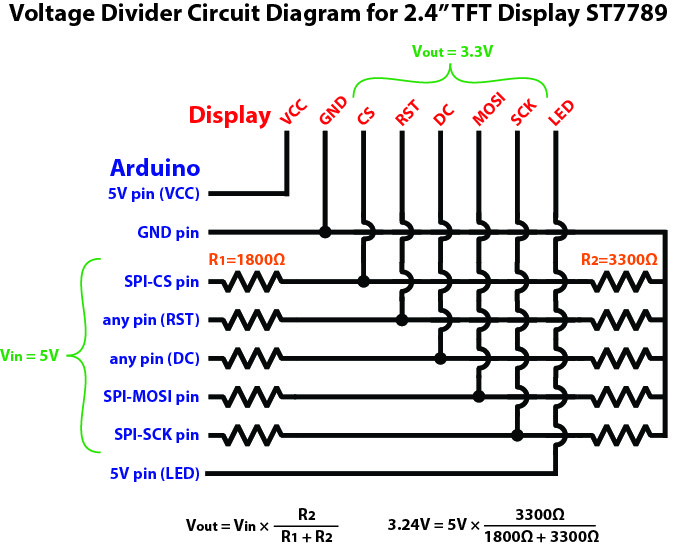
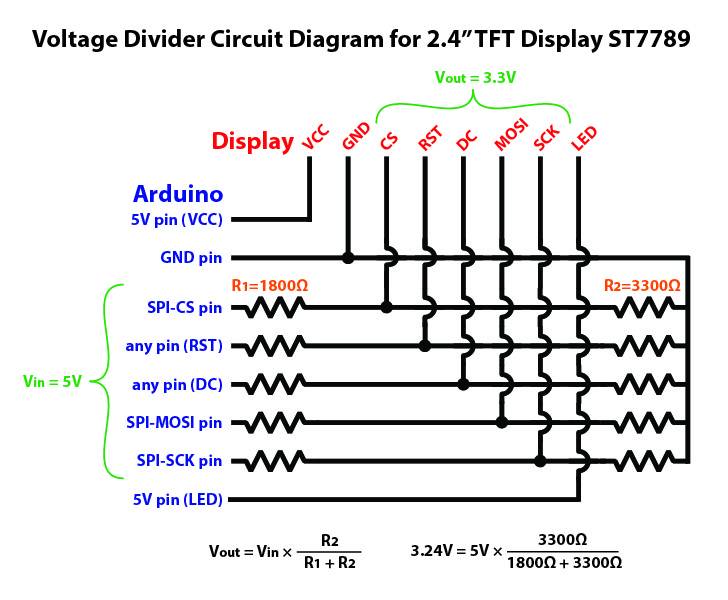
add read me
add read me, update an image

Changed region(s): [[0.0, 0.0, 0.9985, 0.9963], [0.1248, 0.8095, 0.156, 0.8407]]

diff --git a/README.md b/README.md
@@ -1,2 +1,85 @@
-# Arduino-How-To-Guide-2.4-TFT-Display-ST7789
-Arduino How To Guide: 2.4" TFT Display ST7789
+![2.4 inch TFT display ST7789 back](https://github.com/ZPaulWeleschuk/Arduino-How-To-Guide-2.4-TFT-Display-ST7789/blob/main/images/2_4inchTftDispayBottom.jpg)
+
+
+
+|Abbreviation|Full Name|
+| -------------:|:-------------|
+|TFT:| Thin Film Transistor|
+|LCD:| Liquid Crystal Display|
+|ST7789:| the name of the display controller|
+|SPI:| Serial Peripheral Interface|
+|TTL:| Transitor-Transitor Logic|
+|VCC:| Common Collector Voltage|
+|GND:| Ground|
+|CS:| Chip Select; SS: Slave Select; DS: Device Select|
+|RST:| Reset|
+|DC:| Data / Command|
+|MOSI:| Master Out, Slave in; PICO: Peripheral In, Controller Out|
+|MISO:| Master In, Slave Out; POCI: Peripheral Out, Controller In|
+|SCK:| Serial Clock; SCLK: Serial Clock; CLK: Clock|
+|LED:| Light Emmitting Diode(s)|
+|DIN:| Data In|
+|DO:| Data Out|
+|IRQ:| Interrup Request|
+
+## Voltage Divider
+The 2.4 inch TFT LCD display uses both 5V and 3.3V. Five volts are used for the VCC and powering the LED backlight. 3.3 volts is used for communicating logic/data to the display. The Arduino Uno, Nano, and Mega are not capable of outputting 3.3v logic, therefore we need to reduce the 5V logic coming from the Arduino. To achieve this reduction in voltage we need to arrange resistors in series with the display pins. This setup is known as a voltage divider. 
+I decided to build the circuit on a small perf board I had as I will be prototyping another project with it. It has female pin headers so that any Arduino can easily be connected to it and the display can be removed.
+
+|Pins |Voltage|
+|------:|:---------|
+|VCC|5V|
+|GND|GND|
+|CS| 3.3V TTL|
+|RESET|3.3V TTL|
+|DC|3.3V TTL|
+|MOSI| 3.3V TTL|
+|SCK|3.3V TTL|
+|LED| 5V|
+
+![voltage divider circuit Diagram for 2.4 inch TFT display ST7789](https://github.com/ZPaulWeleschuk/Arduino-How-To-Guide-2.4-TFT-Display-ST7789/blob/main/images/schematic24InchTFTDisplay.jpg)
+
+![voltage divider on board](https://github.com/ZPaulWeleschuk/Arduino-How-To-Guide-2.4-TFT-Display-ST7789/blob/main/images/voltageDivider.jpg)
+
+![voltage divider wiring diagram](https://github.com/ZPaulWeleschuk/Arduino-How-To-Guide-2.4-TFT-Display-ST7789/blob/main/images/wiringDiagram2.4InchTFTDisplay.jpg)
+
+![voltage divider on board bottom](https://github.com/ZPaulWeleschuk/Arduino-How-To-Guide-2.4-TFT-Display-ST7789/blob/main/images/voltageDividerBottom.jpg)
+
+![voltage divider connected to display side profile](https://github.com/ZPaulWeleschuk/Arduino-How-To-Guide-2.4-TFT-Display-ST7789/blob/main/images/voltageDividerSide.jpg)
+
+
+## Communicating With The Display
+The Arduino communicates with the display via Serial Peripheral Interface (SPI) protocol. 
+It is best to use the SPI Library, however the library will use the designated SPI pins for your Arduino.
+The SPI pins are different for each board type:
+
+
+
+|Board |SPI Pin #|
+|:------:|:---------:|
+|UNO   |MOSI: 11 |
+|      |MISO: 12 |
+|      |SCK: 13  |
+|      |CS: 10   |
+|||
+|NANO  |MOSI: 11 |
+|      |MISO: 12 |
+|      |SCK: 13  |
+|      |CS: 10   |
+|||
+|MEGA  |MOSI: 51 |
+|      |MISO: 50 |
+|      |SCK: 52  |
+|      |CS: 53   |
+
+
+![working display](https://github.com/ZPaulWeleschuk/Arduino-How-To-Guide-2.4-TFT-Display-ST7789/blob/main/images/workingDisplay.jpg)
+
+## Libraries 
+Install in the Arduino IDE: **Adafruit ST7735 and ST7789 Library by Adafruit**   
+Github link: https://github.com/adafruit/Adafruit-ST7735-Library
+
+Install in the Arduino IDE: **Adafruit-GFX-Library by Adafruit**  
+GitHub link: https://github.com/adafruit/Adafruit-GFX-Library
+
+Comes pre-installed in the Arduino IDE: **SPI library** 
